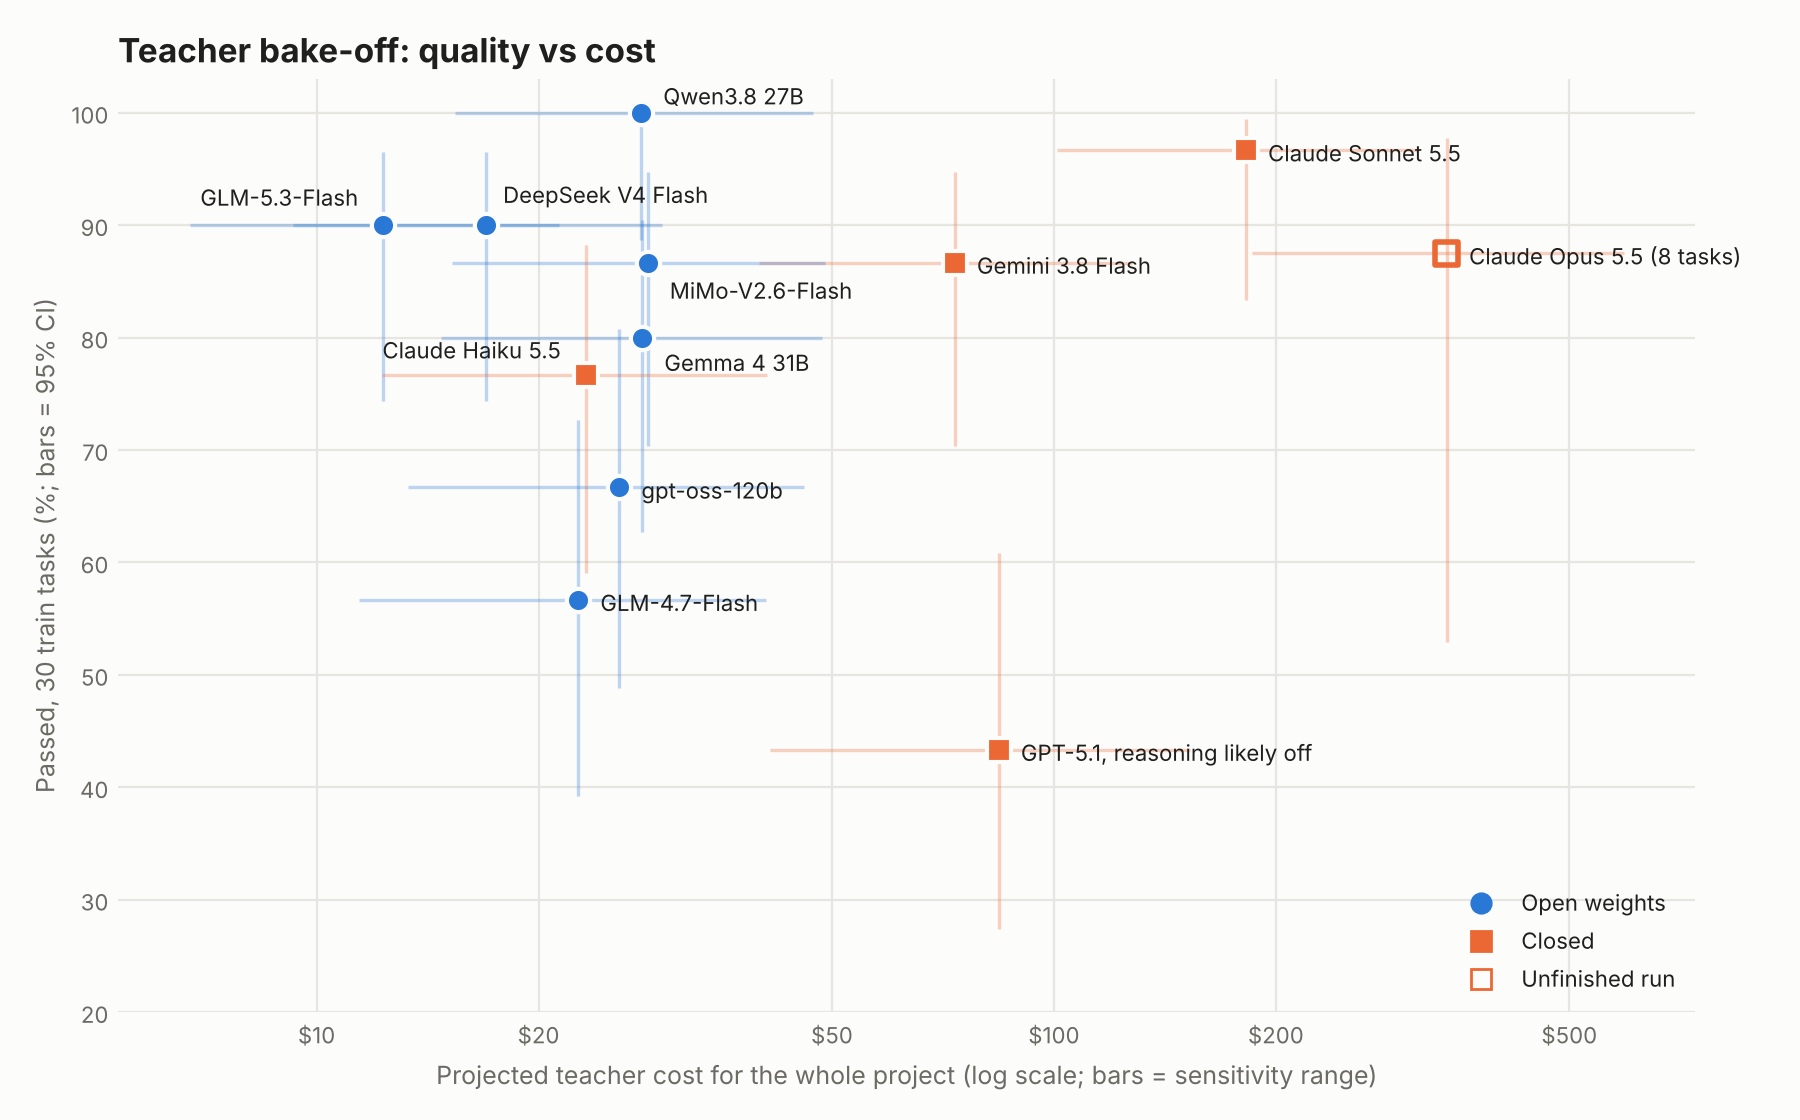
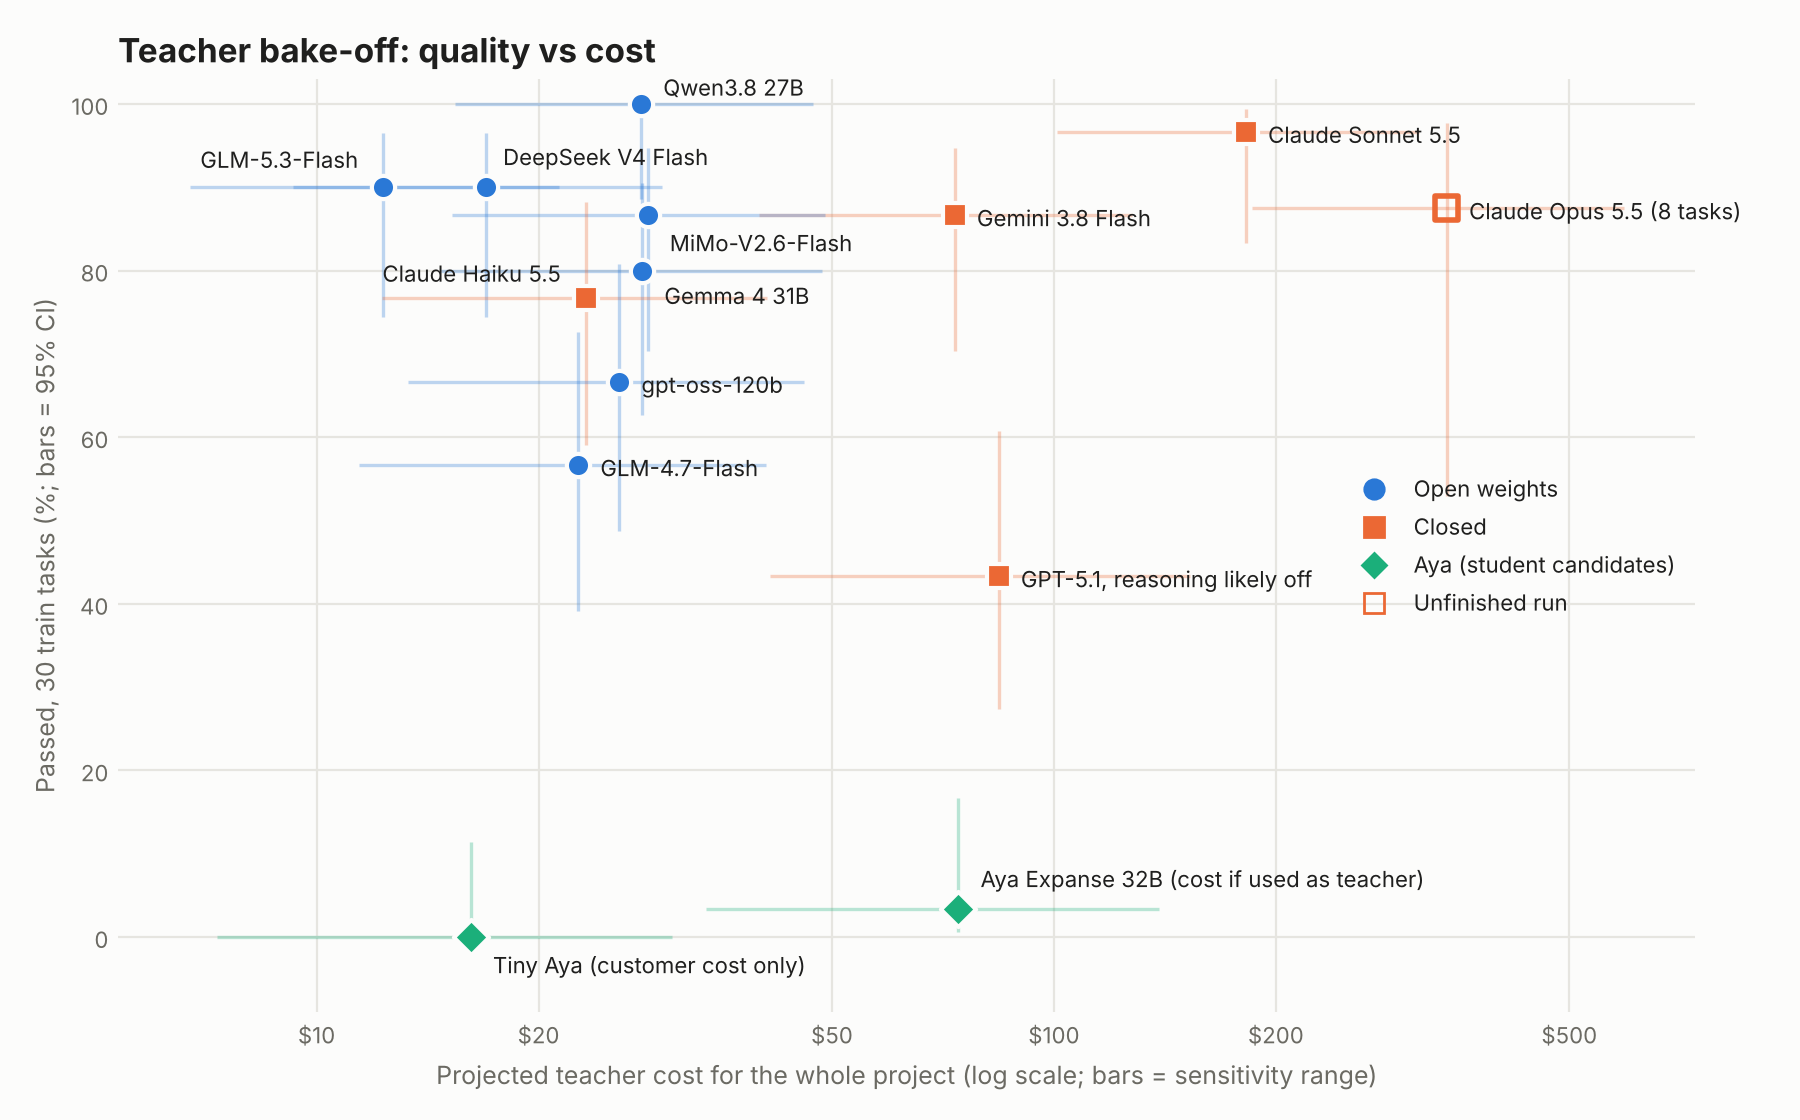
Bake-off chart: include Aya Expanse 32B and Tiny Aya
Claude-Session: https://claude.ai/code/session_01WKFPD2vqX4kykPcp7MEfDM

diff --git a/scripts/bakeoff_plot.py b/scripts/bakeoff_plot.py
@@ -15,34 +15,41 @@ matplotlib.use("Agg")
 import matplotlib.pyplot as plt  # noqa: E402
 from matplotlib.lines import Line2D  # noqa: E402
 
-BLUE, ORANGE = "#2a78d6", "#eb6834"  # categorical slots 1-2, validated on the light surface
+BLUE, ORANGE, AQUA = "#2a78d6", "#eb6834", "#1baf7a"  # categorical slots 1-3, validated (light)
+STUDENTS = {"aya", "tiny"}  # the Aya models: shown as diamonds, each direct-labelled
 INK, MUTED, GRID, BG = "#1f1f1e", "#6b6a63", "#e6e5e0", "#fcfcfb"
 OFFSETS = {"glm53f": (-9, 7, "right"), "dsv4f": (6, 8, "left"), "mimo": (8, -13, "left"),
-           "gemma4": (8, -12, "left"), "qwen38": (8, 3, "left"), "haiku": (-9, 6, "right")}
+           "gemma4": (8, -12, "left"), "qwen38": (8, 3, "left"), "haiku": (-9, 6, "right"),
+           "aya": (8, 8, "left"), "tiny": (8, -13, "left")}
 
 
 def main(src: str, dst: str) -> None:
-    rows = [s for s in json.load(open(src))["rows"] if s["model"] not in ("aya", "tiny", "qwen") and s["n"]]
+    rows = [s for s in json.load(open(src))["rows"] if s["model"] != "qwen" and s["n"]]
     fig, ax = plt.subplots(figsize=(9, 5.6), dpi=200)
     fig.patch.set_facecolor(BG)
     ax.set_facecolor(BG)
     for s in rows:
         x, (lo, hi) = s["projection"]["total"], s["total_range"]
         y, ylo, yhi = s["rate"] * 100, s["ci"][0] * 100, s["ci"][1] * 100
-        c, partial = (BLUE if s["open"] else ORANGE), s["n"] < 30
+        aya = s["model"] in STUDENTS
+        c, partial = (AQUA if aya else BLUE if s["open"] else ORANGE), s["n"] < 30
         ax.errorbar(x, y, xerr=[[x - lo], [hi - x]], yerr=[[y - ylo], [yhi - y]], fmt="none",
                     ecolor=c, alpha=0.3, lw=1.2, zorder=1)
-        ax.scatter(x, y, s=70, marker="o" if s["open"] else "s", facecolor="none" if partial else c,
+        marker = "D" if aya else "o" if s["open"] else "s"
+        ax.scatter(x, y, s=80 if aya else 70, marker=marker, facecolor="none" if partial else c,
                    edgecolor=c if partial else BG, linewidth=2 if partial else 1.5, zorder=3)
         label = s["label"] + (f" ({s['n']} tasks)" if partial else "")
         label += ", reasoning likely off" if s["model"] == "gpt51" else ""
+        label += " (cost if used as teacher)" if s["model"] == "aya" else ""
+        label += " (customer cost only)" if s["model"] == "tiny" else ""
         dx, dy, ha = OFFSETS.get(s["model"], (8, -4, "left"))
-        ax.annotate(label, (x, y), xytext=(dx, dy), textcoords="offset points", fontsize=8, color=INK, ha=ha)
+        ax.annotate(label, (x, y), xytext=(dx, dy), textcoords="offset points", fontsize=8,
+                    color=INK, ha=ha)
     ax.set_xscale("log")
     ax.set_xticks([10, 20, 50, 100, 200, 500])
     ax.set_xticklabels(["$10", "$20", "$50", "$100", "$200", "$500"])
     ax.minorticks_off()
-    ax.set_ylim(20, 103)
+    ax.set_ylim(-9, 103)
     ax.set_xlabel("Projected teacher cost for the whole project (log scale; bars = sensitivity range)",
                   color=MUTED, fontsize=9)
     ax.set_ylabel("Passed, 30 train tasks (%; bars = 95% CI)", color=MUTED, fontsize=9)
@@ -55,9 +62,10 @@ def main(src: str, dst: str) -> None:
     ax.legend(handles=[
         Line2D([], [], marker="o", ls="", color=BLUE, label="Open weights", markersize=7),
         Line2D([], [], marker="s", ls="", color=ORANGE, label="Closed", markersize=7),
+        Line2D([], [], marker="D", ls="", color=AQUA, label="Aya (student candidates)", markersize=6),
         Line2D([], [], marker="s", ls="", markerfacecolor="none", markeredgecolor=ORANGE,
                label="Unfinished run", markersize=7)],
-        loc="lower right", frameon=False, fontsize=8, labelcolor=INK)
+        loc="center right", frameon=False, fontsize=8, labelcolor=INK)
     fig.tight_layout()
     fig.savefig(dst, facecolor=BG)
 
